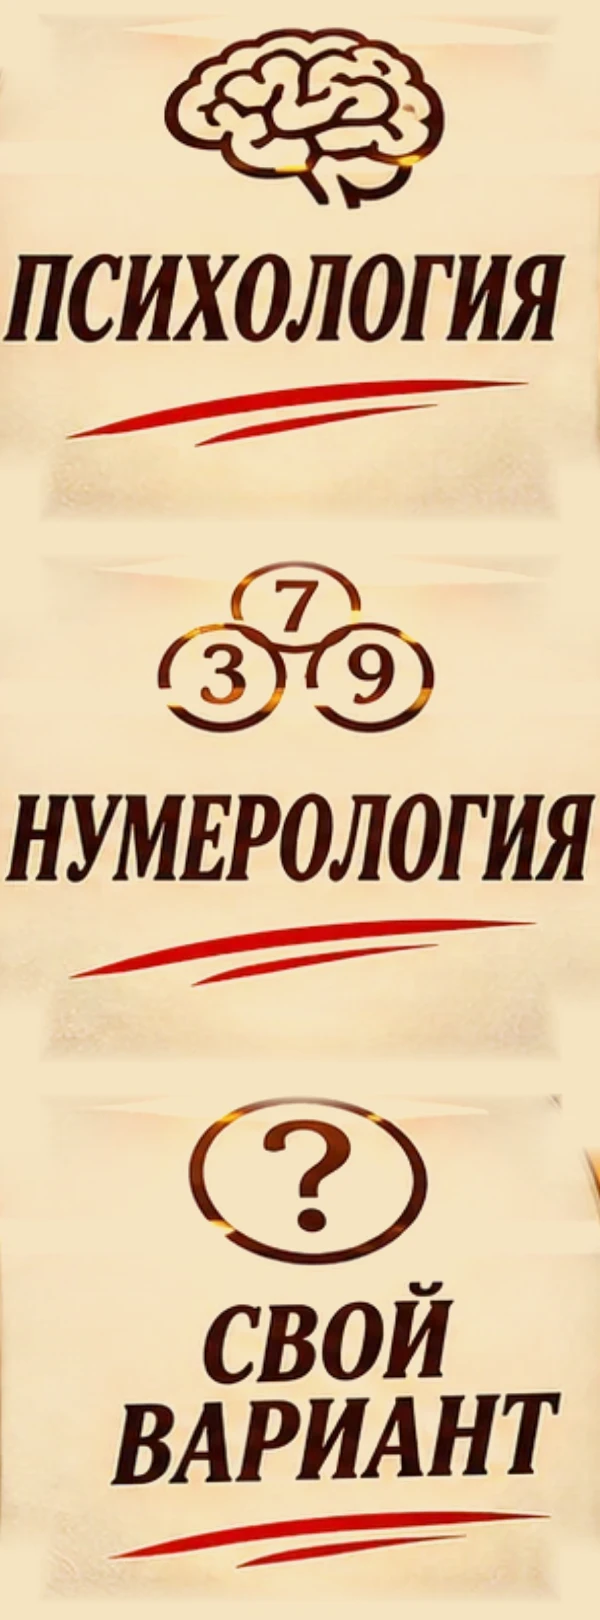
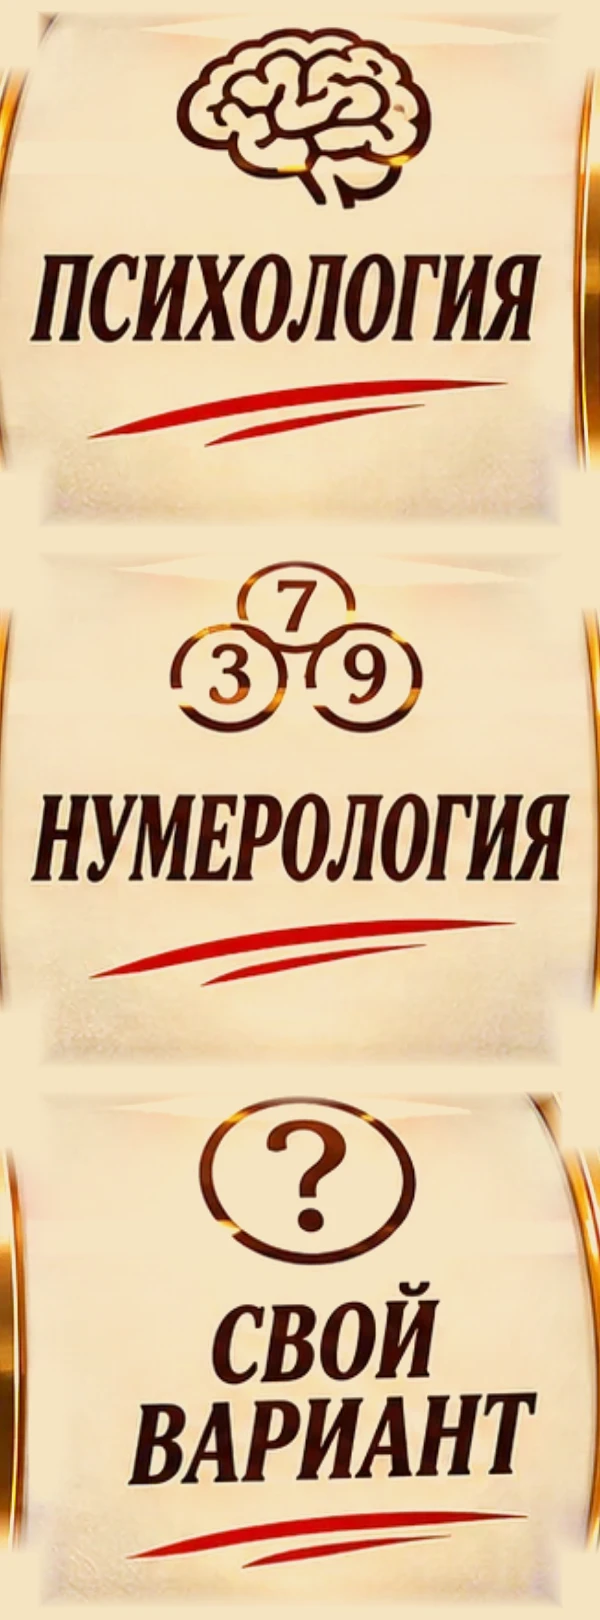
Барабаны: окно расширено до рамки, края растворяются — без видимого прямоугольника

diff --git a/assets/style.css b/assets/style.css
@@ -116,13 +116,16 @@ button{cursor:pointer}
 
 /* Барабан игрового автомата: рамка карточки неподвижна, в окне едет лента чистых панелей (img/reel-strip.webp).
    Окно совпадает с панелью своей карточки — отступы те же, что при нарезке ленты. */
-.reel{position:absolute;z-index:1;isolation:isolate;top:10.5%;bottom:7%;left:var(--rl);right:var(--rr);overflow:hidden;border-radius:12%/14%;pointer-events:none;background:#f6e4c2}
+.reel{position:absolute;z-index:1;isolation:isolate;top:10.5%;bottom:7%;left:var(--rl);right:var(--rr);overflow:hidden;border-radius:12%/14%;pointer-events:none;background:#f6e4c2;
+  /* края окна растворяются в панель карточки: прямоугольник не совпадает с выпуклой панелью-цилиндром */
+  -webkit-mask:linear-gradient(90deg,transparent 0,#000 4%,#000 96%,transparent 100%),linear-gradient(180deg,transparent 0,#000 5%,#000 94%,transparent 100%);-webkit-mask-composite:source-in;
+  mask:linear-gradient(90deg,transparent 0,#000 4%,#000 96%,transparent 100%),linear-gradient(180deg,transparent 0,#000 5%,#000 94%,transparent 100%);mask-composite:intersect}
 /* Неподвижная тень цилиндра поверх ленты: карта затенения своей карточки (img/reel-shade-N.png) */
 .reel::after{content:"";position:absolute;inset:0;z-index:1;background:url(../img/reel-shade-0.png) 0 0/100% 100% no-repeat;mix-blend-mode:multiply}
-.choice:nth-child(1) .reel{--rl:9%;--rr:11%}
-.choice:nth-child(2) .reel{--rl:9.5%;--rr:6.5%}
+.choice:nth-child(1) .reel{--rl:5%;--rr:7%}
+.choice:nth-child(2) .reel{--rl:5.5%;--rr:2.5%}
 .choice:nth-child(2) .reel::after{background-image:url(../img/reel-shade-1.png)}
-.choice:nth-child(3) .reel{--rl:14%;--rr:6.5%}
+.choice:nth-child(3) .reel{--rl:10%;--rr:2.5%}
 .choice:nth-child(3) .reel::after{background-image:url(../img/reel-shade-2.png)}
 .reel-strip{position:absolute;left:0;top:0;width:100%;display:flex;flex-direction:column;will-change:transform}
 .reel-item{flex:1 1 0;background:url(../img/reel-strip.webp) no-repeat 0 0/100% 300%}

diff --git a/index.html b/index.html
@@ -18,7 +18,7 @@
   <link rel="preload" href="img/reel-shade-0.png" as="image">
   <link rel="preload" href="img/reel-shade-1.png" as="image">
   <link rel="preload" href="img/reel-shade-2.png" as="image">
-  <link rel="stylesheet" href="assets/style.css?v=13">
+  <link rel="stylesheet" href="assets/style.css?v=17">
 </head>
 <body>
   <div class="backdrop" aria-hidden="true"></div>
